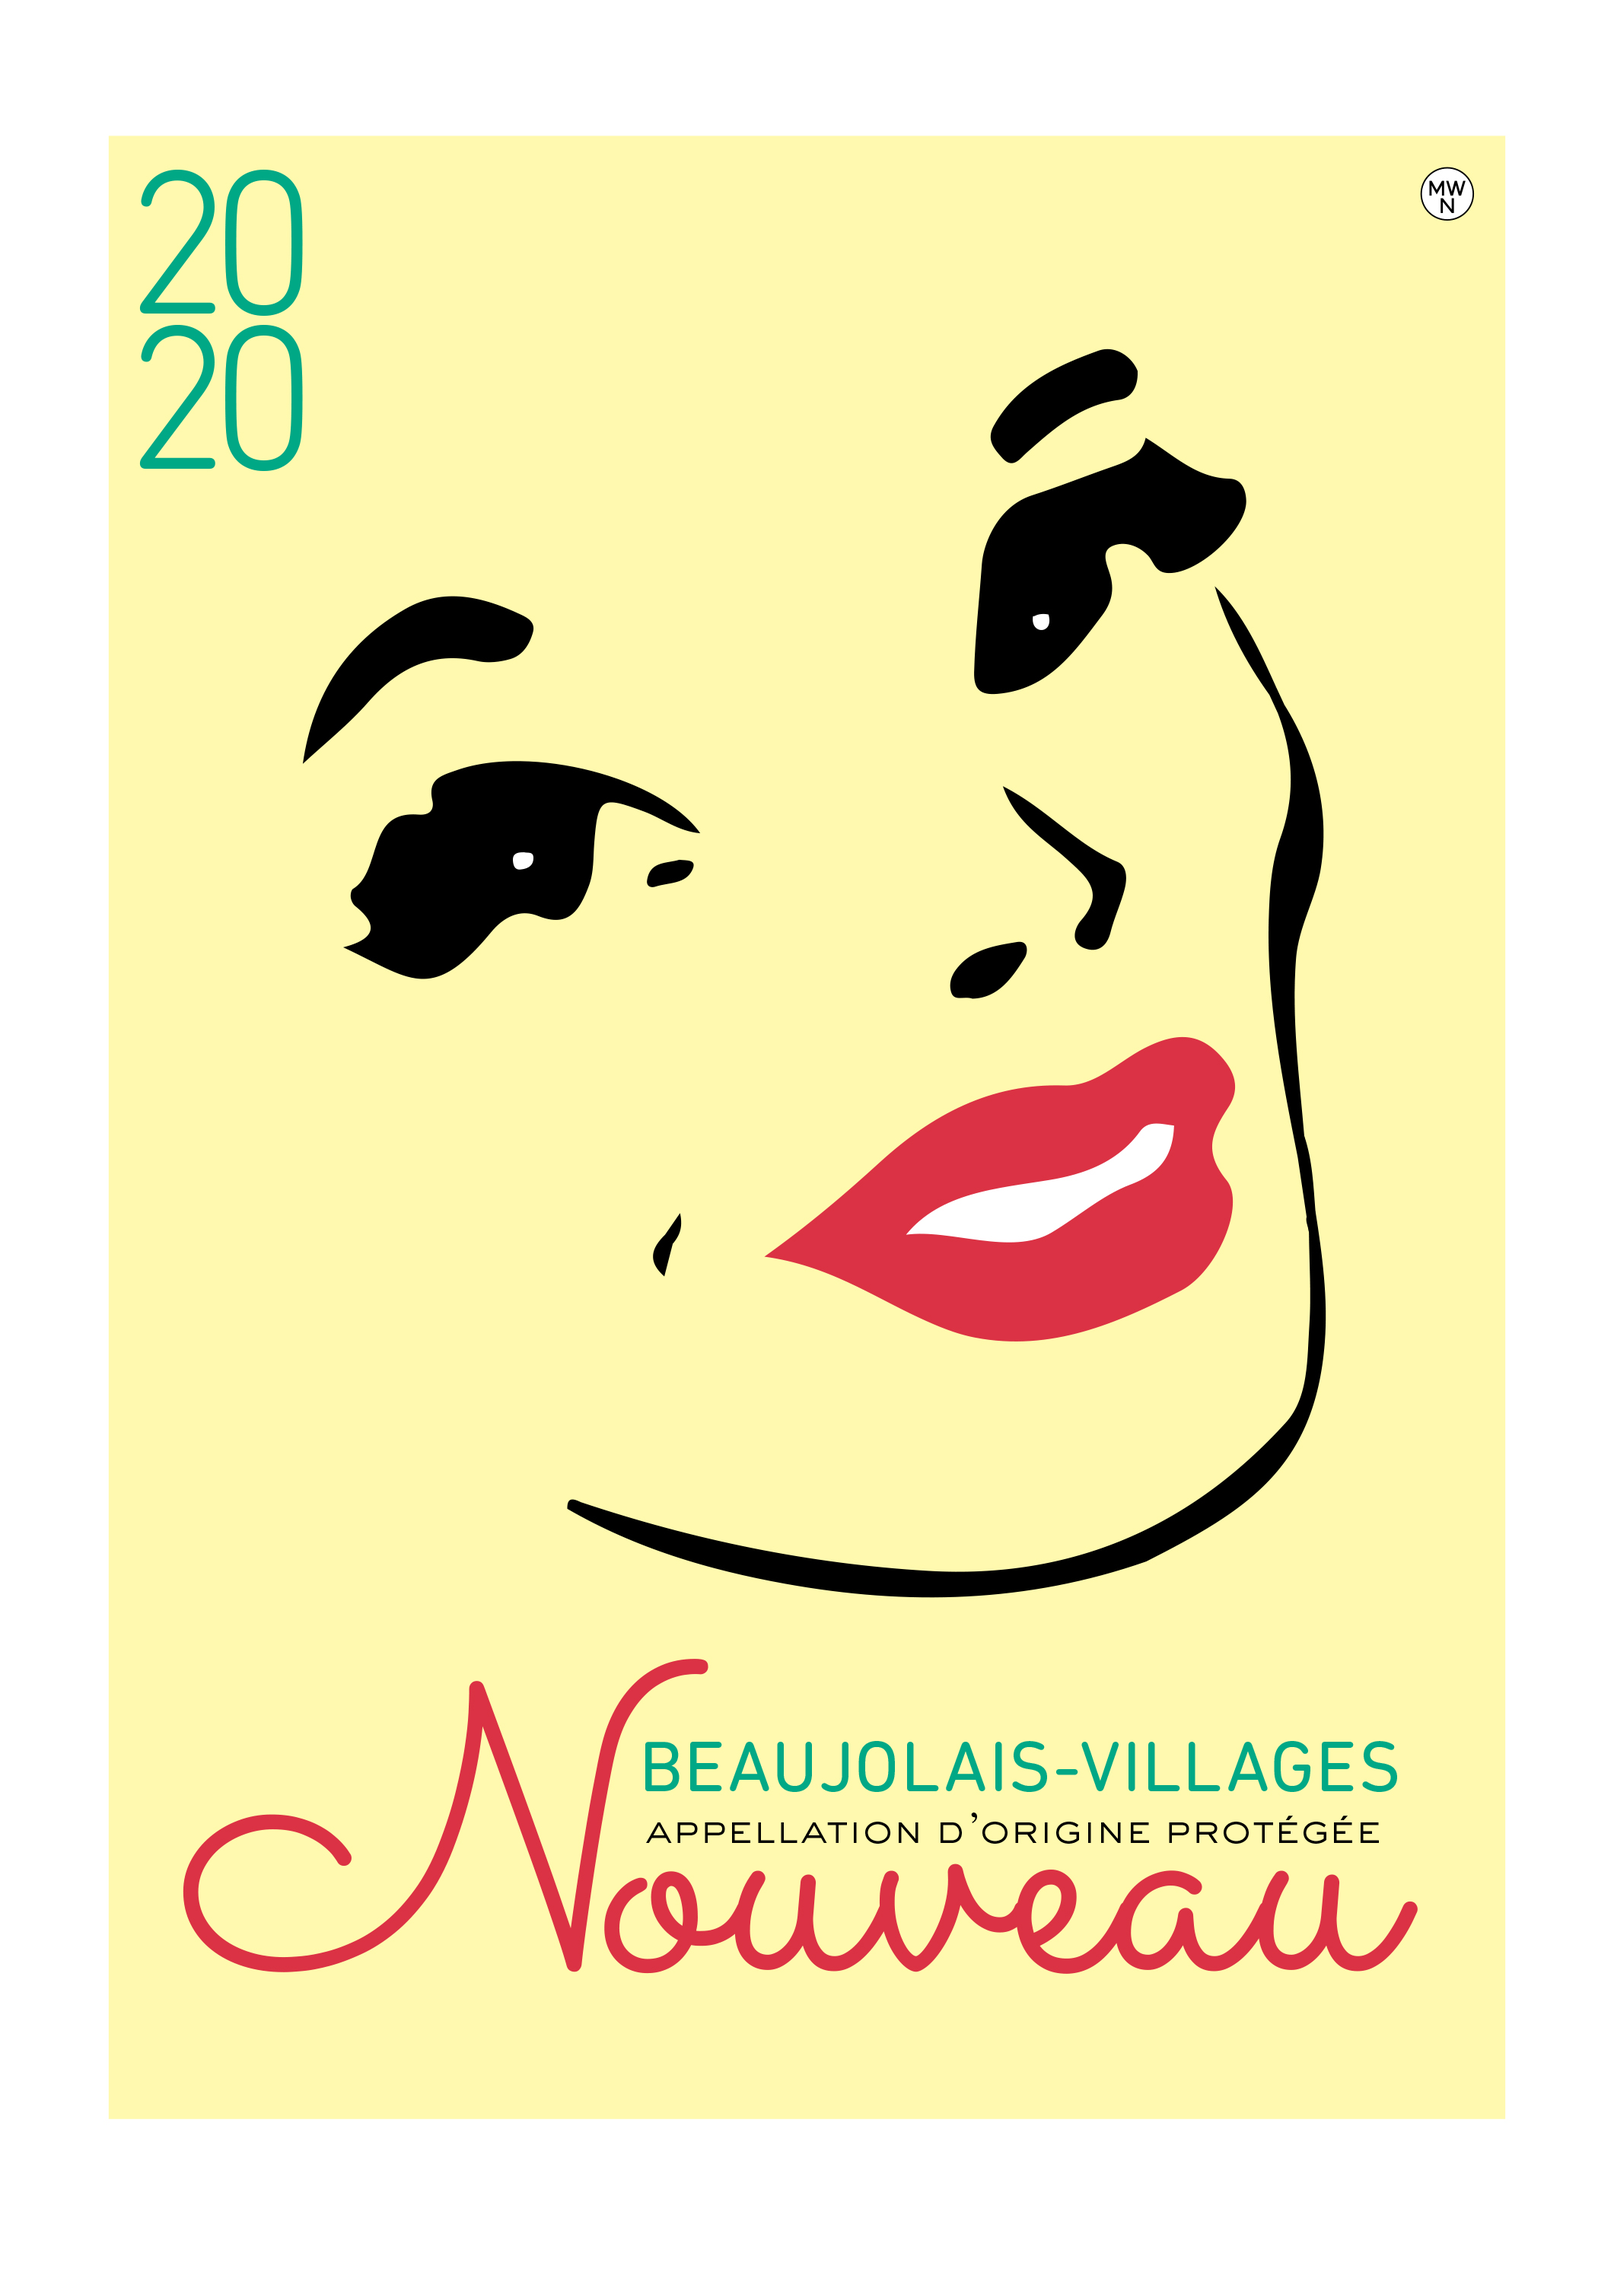
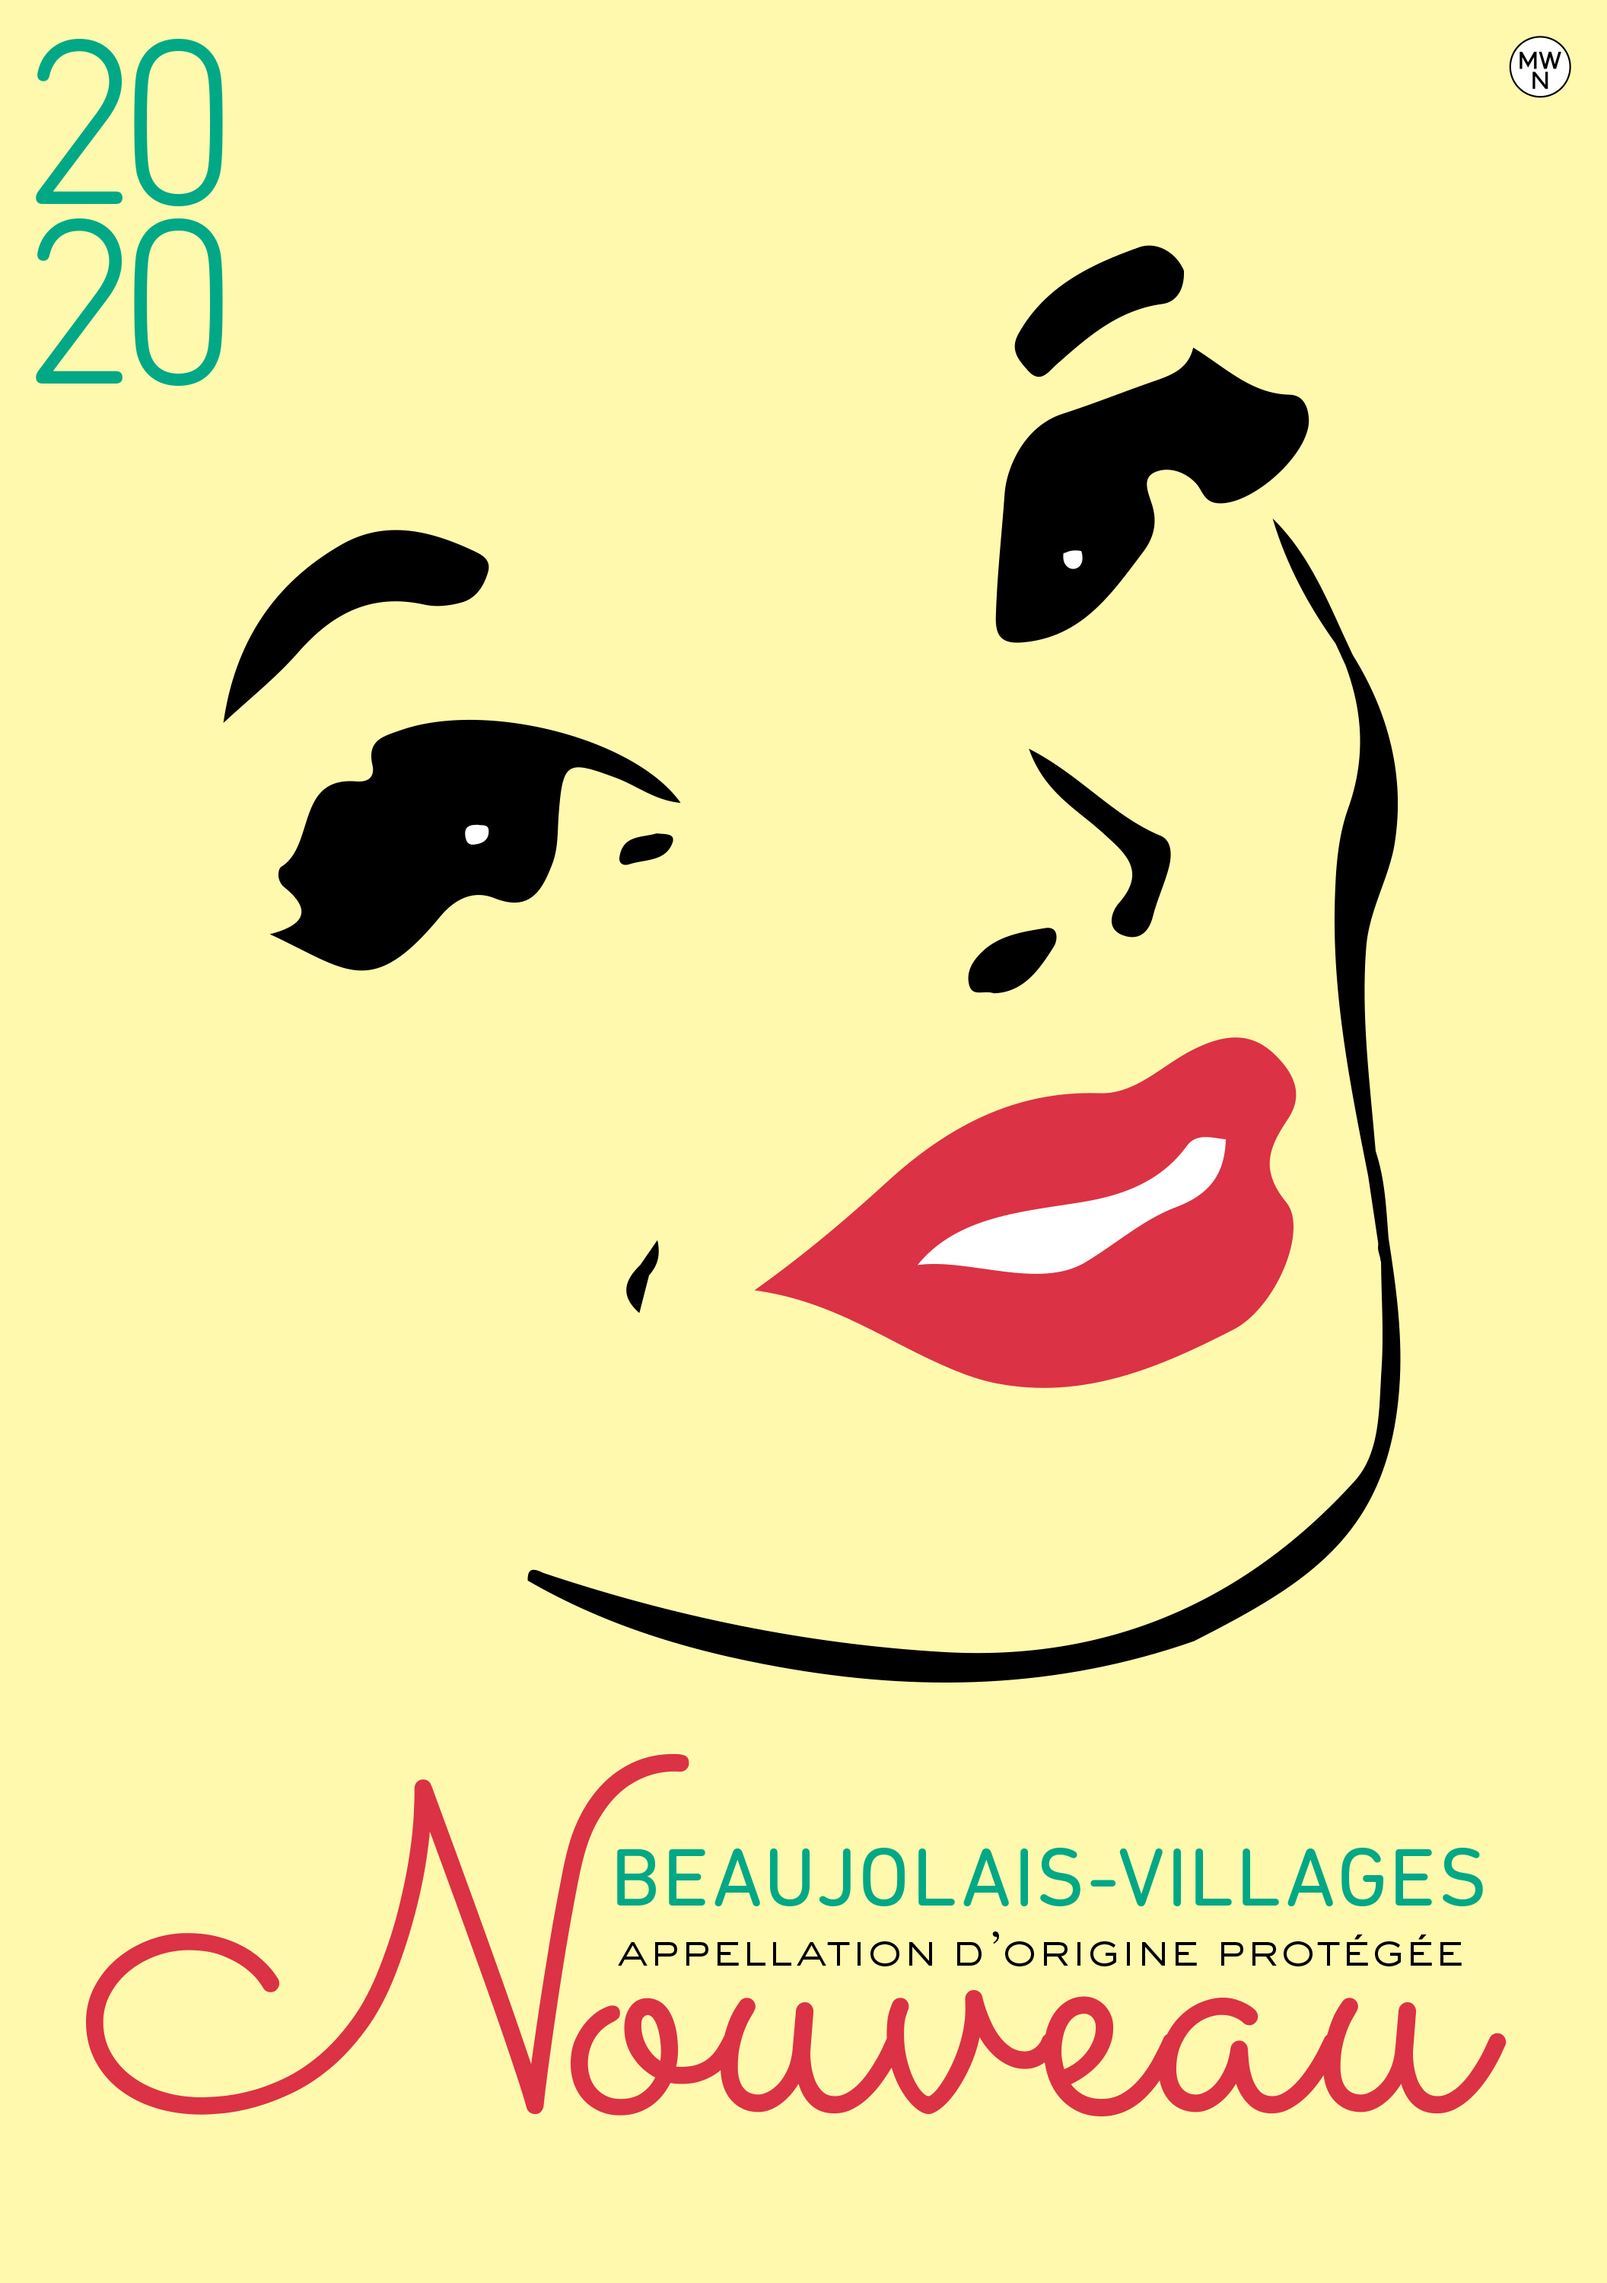
Galleri i två sektioner, nya bilder och nya affischversioner
- Galleriet delat i "design" och "photography", var sin justified grid;
  lightboxen bläddrar genom alla bilder i en följd
- Rubrikerna ligger i texter.md (gallery.design, gallery.photography)
- Nya bilder: octopus-chartm-a.jpg och sakura-poster-a3.jpg med alt-texter
- Nya versioner av beaujolais-nouveau-poster-2020–2026 (logotypen oförändrad)
- texter.md: uppdaterad om-text; PLAN.md: galleristruktur och lanseringsstatus

diff --git a/src/data/texter.ts b/src/data/texter.ts
@@ -7,6 +7,10 @@ export interface Texter {
   tagline: string;
   categories: string;
   footer: string;
+  gallery: {
+    design: string;
+    photography: string;
+  };
   contact: {
     email: string;
     phone: string;

diff --git a/PLAN.md b/PLAN.md
@@ -42,9 +42,10 @@ Förlaga: Carrd-skissen "mawini studio" (enkel sida, vitt kort mot randig bakgru
 
 ## Galleri
 - Enda källan: **`src/content/galleri.yaml`**, en post per bild med `file`, `category`, `alt` och valfria `title`, `client`, `year`
-- Ordningen i filen = ordningen i galleriet. Läses via content collection (`src/content.config.ts`), som validerar fälten
+- Galleriet har två sektioner, var och en med eget justified grid: först **design** (allt som inte är foto: graphic-design, illustration, other), sedan **photography**. Rubrikerna är feta, samma storlek som brödtexten, och texten står i `src/content/texter.md` (`gallery.design`, `gallery.photography`)
+- Ordningen inom varje sektion = ordningen i galleri.yaml. Läses via content collection (`src/content.config.ts`), som validerar fälten
 - Bildfilerna ligger i `src/assets/gallery/<category>/`. Ett felstavat filnamn stoppar bygget med ett tydligt fel
-- Klick öppnar **lightbox**: pilar, tangentbord, swipe, Esc stänger
+- Klick öppnar **lightbox**: pilar, tangentbord, swipe, Esc stänger. Lightboxen bläddrar genom alla bilder i en följd (design → photography → tillbaka till början)
 - **Inga bildtexter** visas i gridet. De valfria fälten (title, client, year) visas bara i lightboxen, och bara om de är ifyllda
 - Alt-text på alla bilder (fältet `alt`)
 - Kategorier: graphic-design, photography, illustration, other
@@ -76,7 +77,10 @@ Förlaga: Carrd-skissen "mawini studio" (enkel sida, vitt kort mot randig bakgru
 - [x] Sätta upp Astro-projekt + Git
 - [x] Bygga layout
 - [x] Galleri + lightbox
-- [ ] Deploy + DNS-byte
+- [x] Deploy till GitHub Pages + DNS-byte för mawini.com (2026-10-21)
+- [x] Enforce HTTPS i GitHub
+- [x] mawini.se, mawini.eu, killershark.se, matswnilsson.se → 301 till https://mawini.com (Loopia)
+- [ ] Avpublicera Wix-sajten och säg upp ev. Wix-abonnemang
 
 ## Snabbreferens för Mats
 **Redigera själv**

diff --git a/src/content/texter.md b/src/content/texter.md
@@ -7,6 +7,11 @@ tagline: creator of things
 categories: design / photography / code / other
 footer: © mmxxvi mawini
 
+# Rubriker för galleriets två sektioner
+gallery:
+  design: design
+  photography: photography
+
 contact:
   email: mats@mawini.com
   phone: "+46 732 622 660"
@@ -21,8 +26,8 @@ meta:
 
 **mats w nilsson** : artist in [ or out of ] residence
 
-**graphic design + photography** 30+ years in the business. stockholm based. working independently as well as in collaboration with clients and agencies.
+**design + photography + code** 30+ years in the business. stockholm based. working independently as well as in collaboration with clients and agencies.
 
-**competence** spans a wide range — graphic design, brand identity, art direction, photography, game design, motion graphics, illustration, copywriting, coding (web, apps, games) — for clients ranging from ambitious startups to established global brands.
+**competence** spans a wide range — graphic design, brand identity, art direction, photography, web design, app design, game design, coding (web, apps, games), motion graphics, illustration, copywriting — for clients ranging from ambitious startups to established global brands.
 
 **driven by** a deep interest in art, design, photography, architecture and technology.
